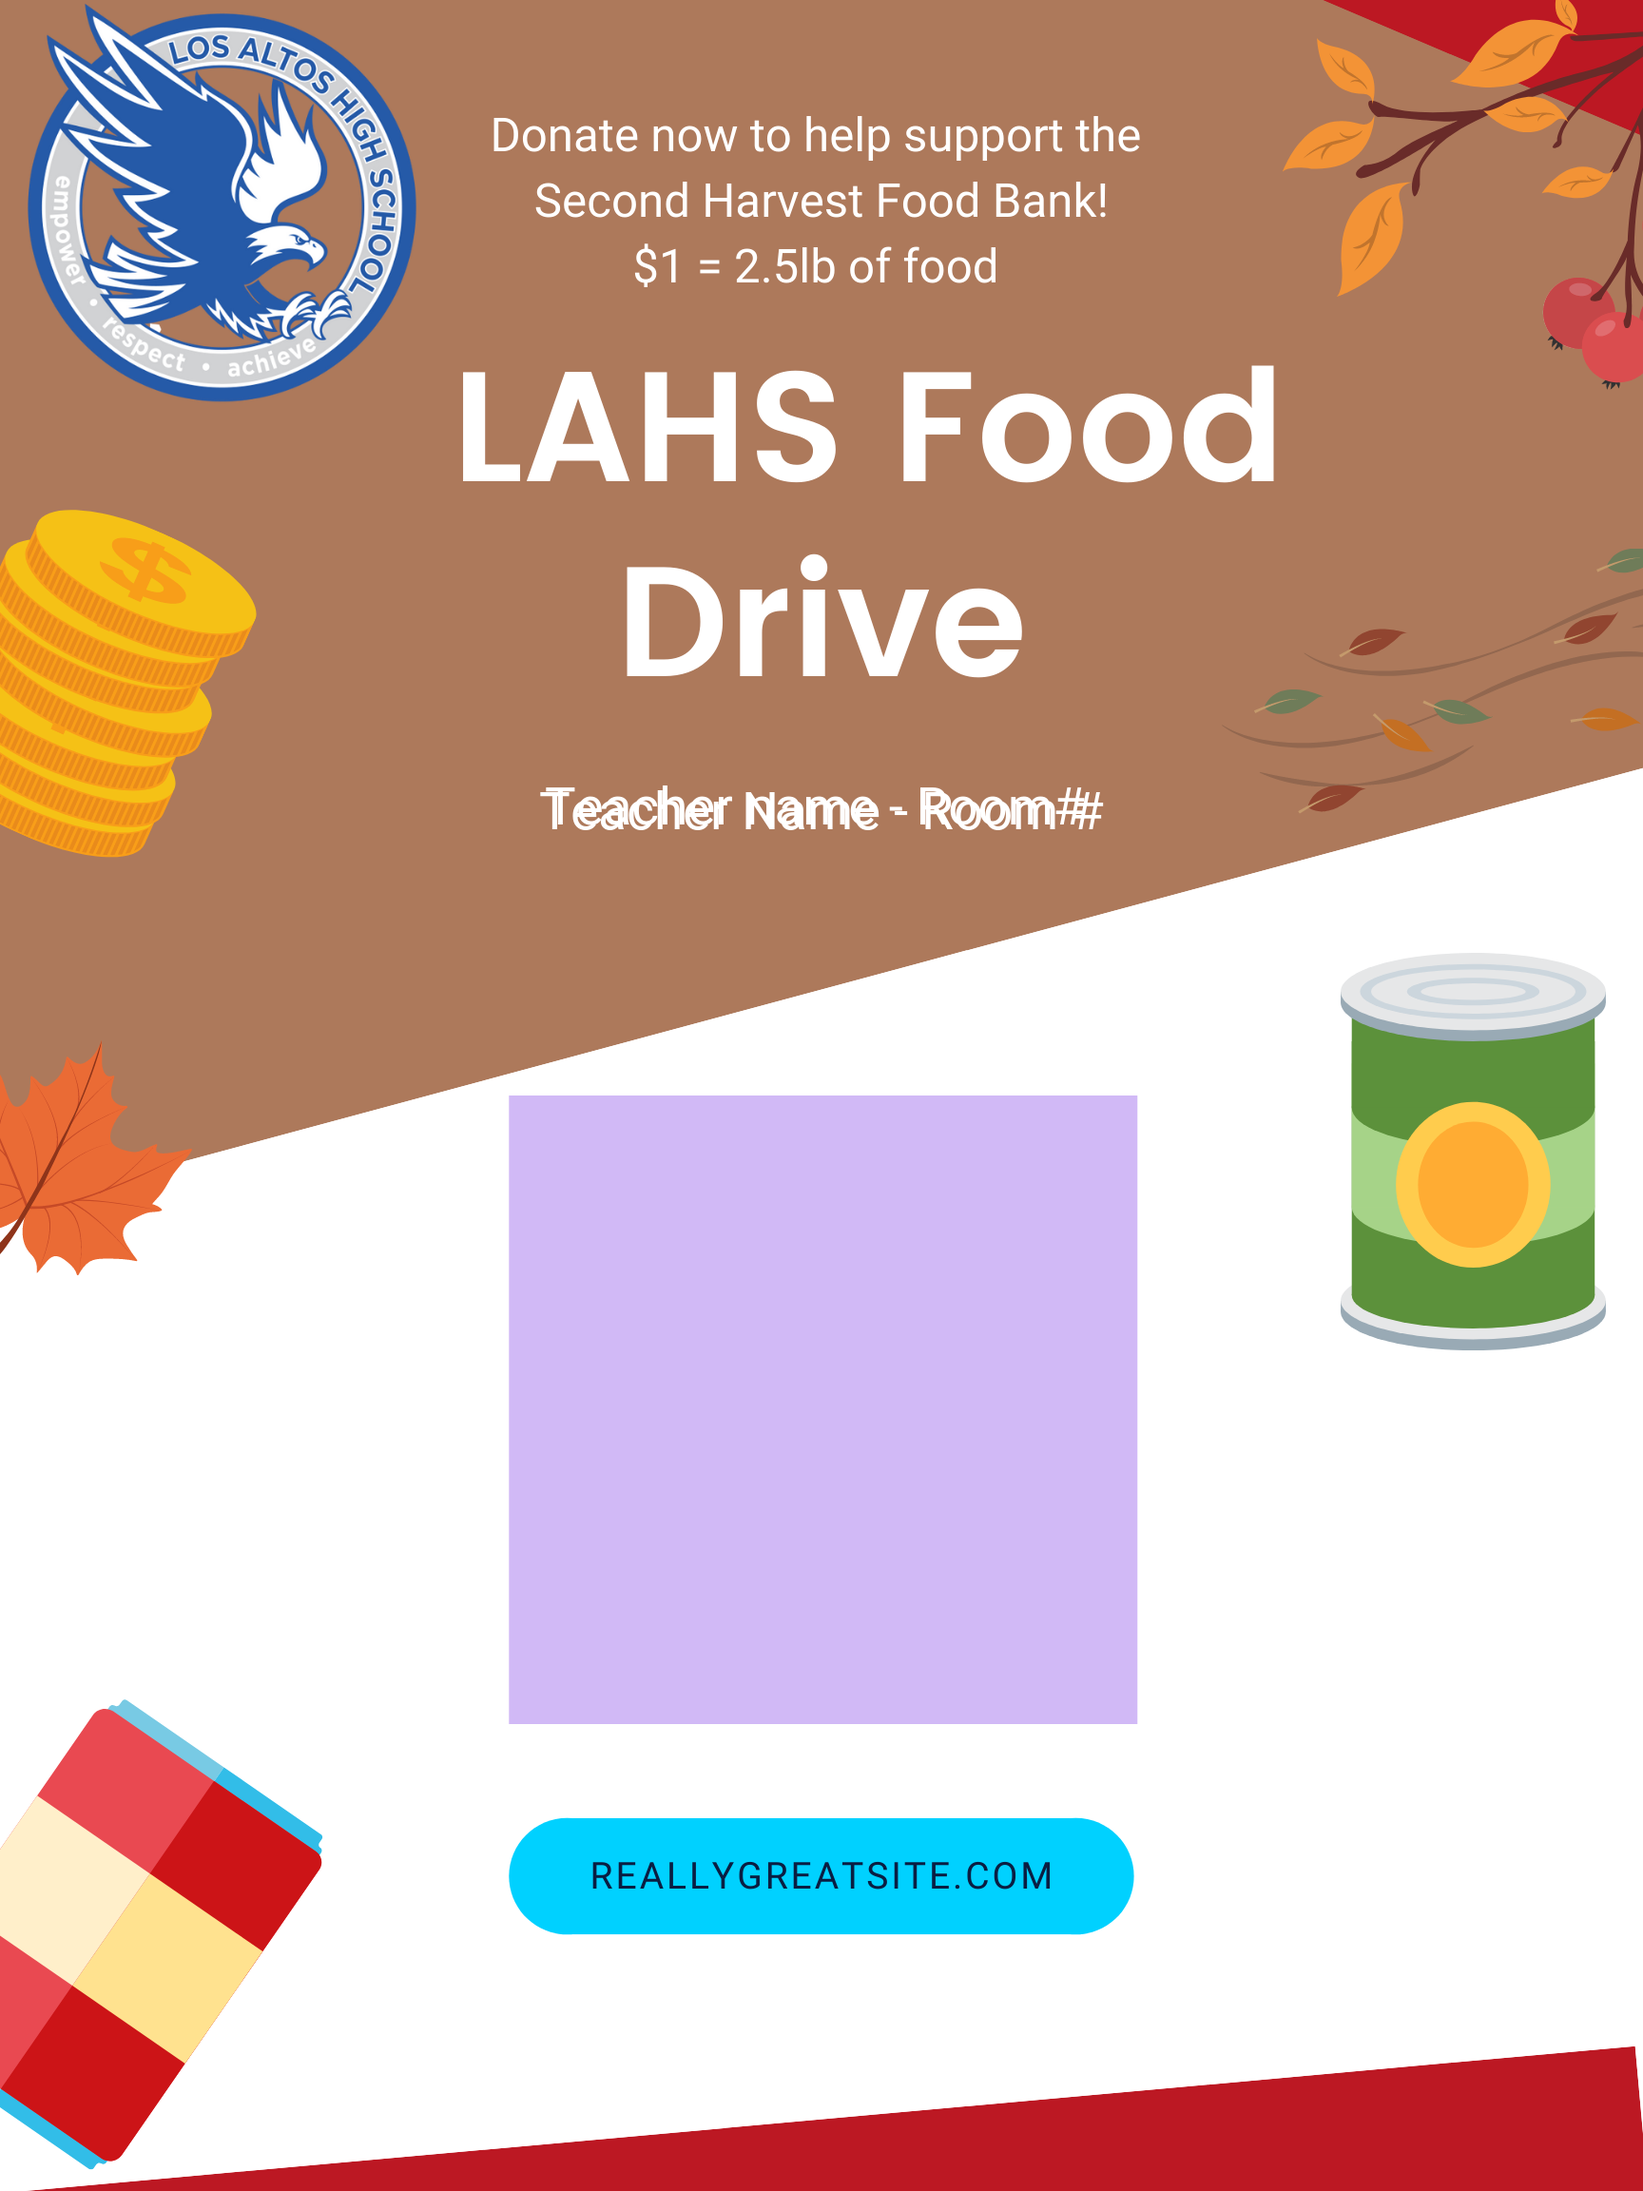
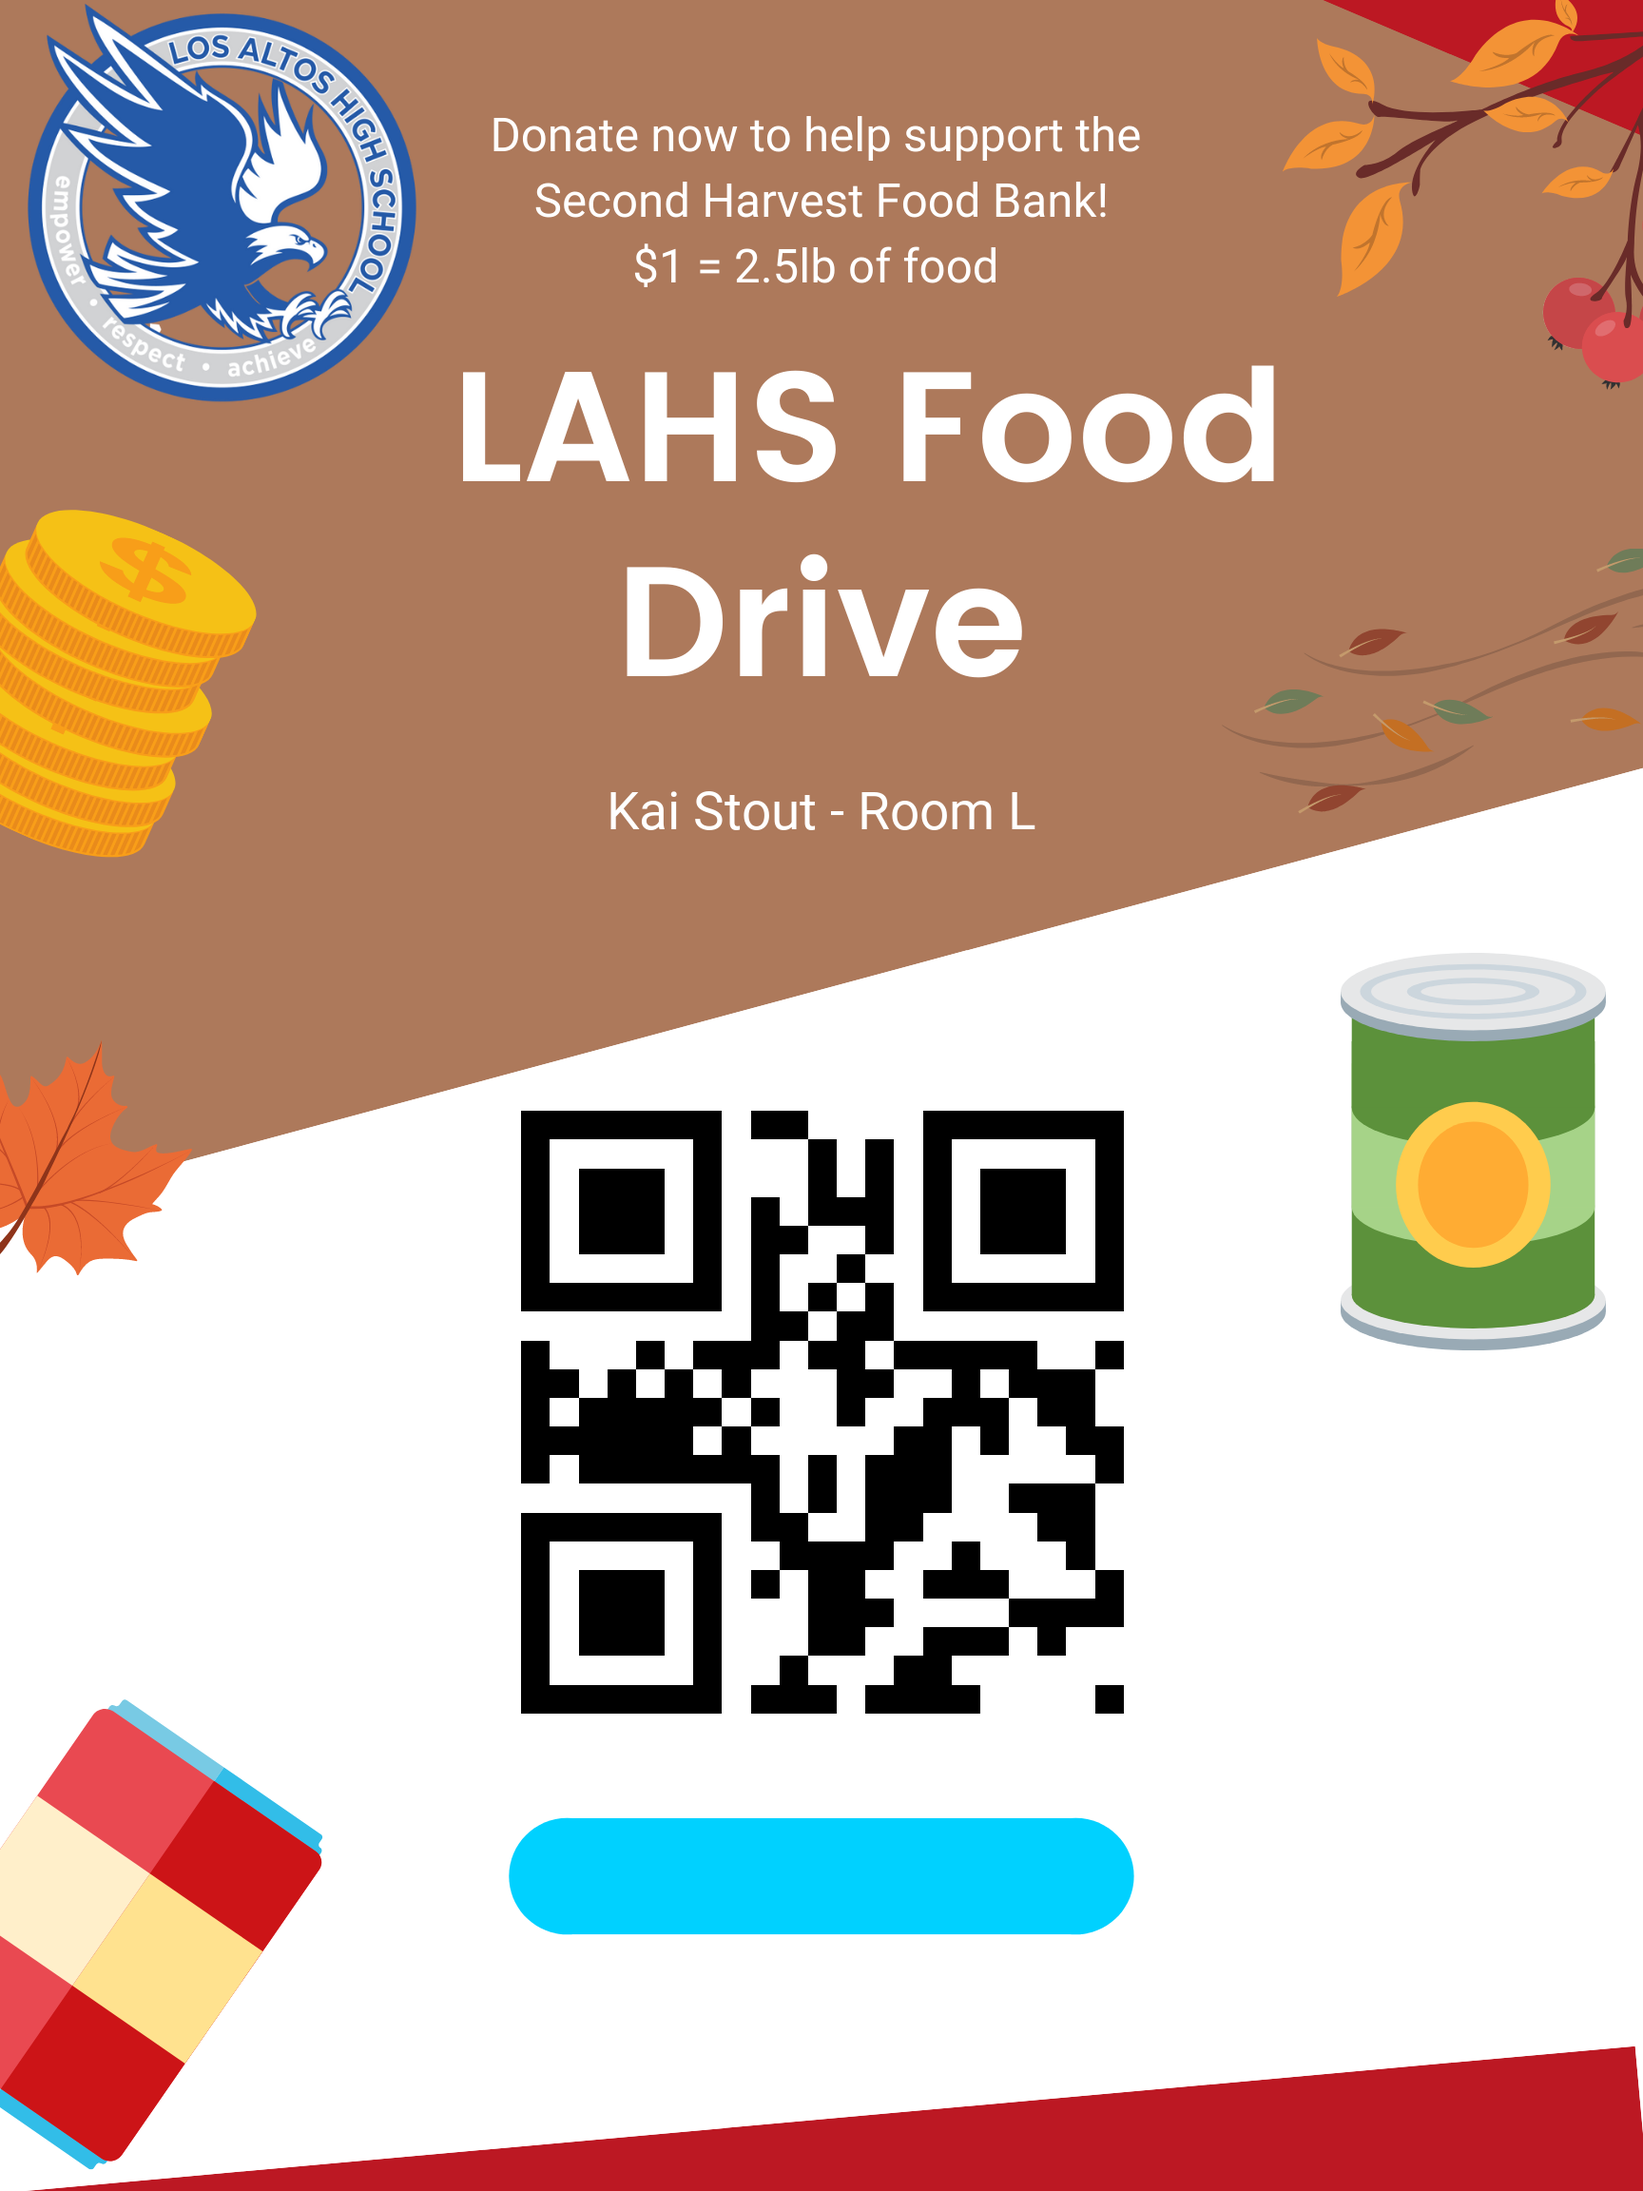
Got the qr code size and positioining adjusted

diff --git a/GraphicDesigner.py b/GraphicDesigner.py
@@ -3,12 +3,19 @@ from pathlib import Path
 import textwrap
 import qrcode 
 
-Template_Path = Path("designs", "template-trial.png")
+Template_Path = Path("designs", "template.png")
 
 Fonts = {
     "sub-header": ImageFont.truetype("Roboto-Regular.ttf", size=55),
     "link": ImageFont.truetype("Roboto-Regular.ttf", size=29)
 }
+
+qr = qrcode.QRCode(
+    version=1,
+    error_correction=qrcode.constants.ERROR_CORRECT_L,
+    box_size=40,
+    border=4,
+)
 
 def make_flyer(teacher_name, room_number, donation_link):
     """
@@ -22,7 +29,7 @@ def make_flyer(teacher_name, room_number, donation_link):
     """
 
     flyer_img = Image.open(Template_Path)
-    W, H = (flyer_img.width, flyer_img.height)
+    W, H = flyer_img.size
 
     flyer_editor = ImageDraw.Draw(flyer_img)
 
@@ -34,8 +41,11 @@ def make_flyer(teacher_name, room_number, donation_link):
     flyer_editor.text(((W-w_sub)/2, (H-h_sub-sub_height_adj)/2), \
         sub_header, font=Fonts["sub-header"])
 
+    qr_img = qr_code_generator(donation_link)
+    flyer_img.paste(qr_img, (515, 1135))
+
     flyer_img.save("gggggg.png", "PNG")
-    #qr_img = qr_code_generator(donation_link)
+    
 
 
 def qr_code_generator(donation_link):
@@ -46,9 +56,16 @@ def qr_code_generator(donation_link):
 
     @return img object of qr code
     """
-    return qrcode.make(donation_link)
+    qr_img = qrcode.make(donation_link)
+    w_qr, h_qr = qr_img.size
+    
+    # trial and error
+    qr_img = qr_img.crop((0.1*w_qr, 0.1*h_qr, 0.9*w_qr, 0.9*h_qr))
+    qr_img = qr_img.resize((700,700))
+    
+    return qr_img
 
 #main for debugging and testing
 if __name__ == "__main__":
-    make_flyer("Teacher Name", "Room #", "",)
+    make_flyer("Kai Stout", "Room L", "ggggg",)
     
